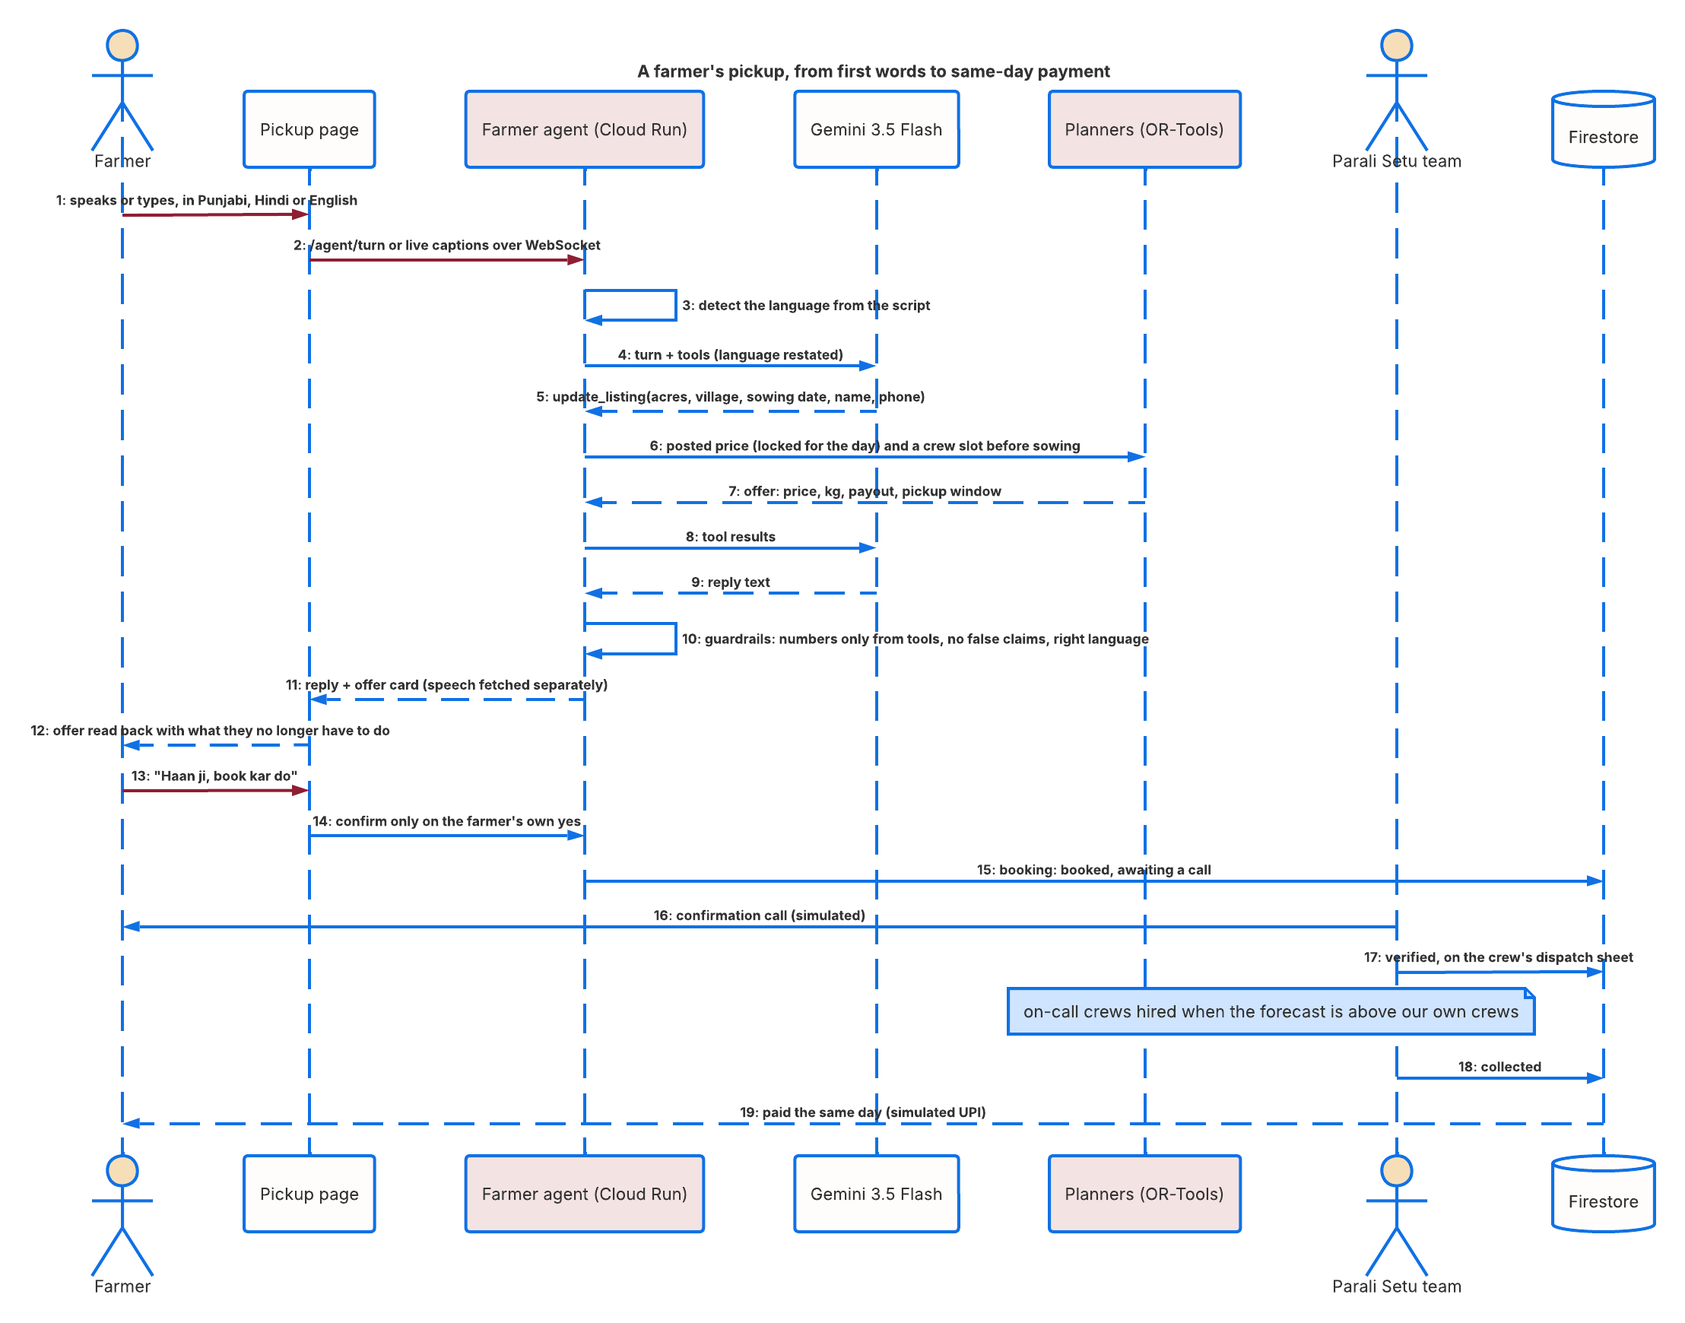
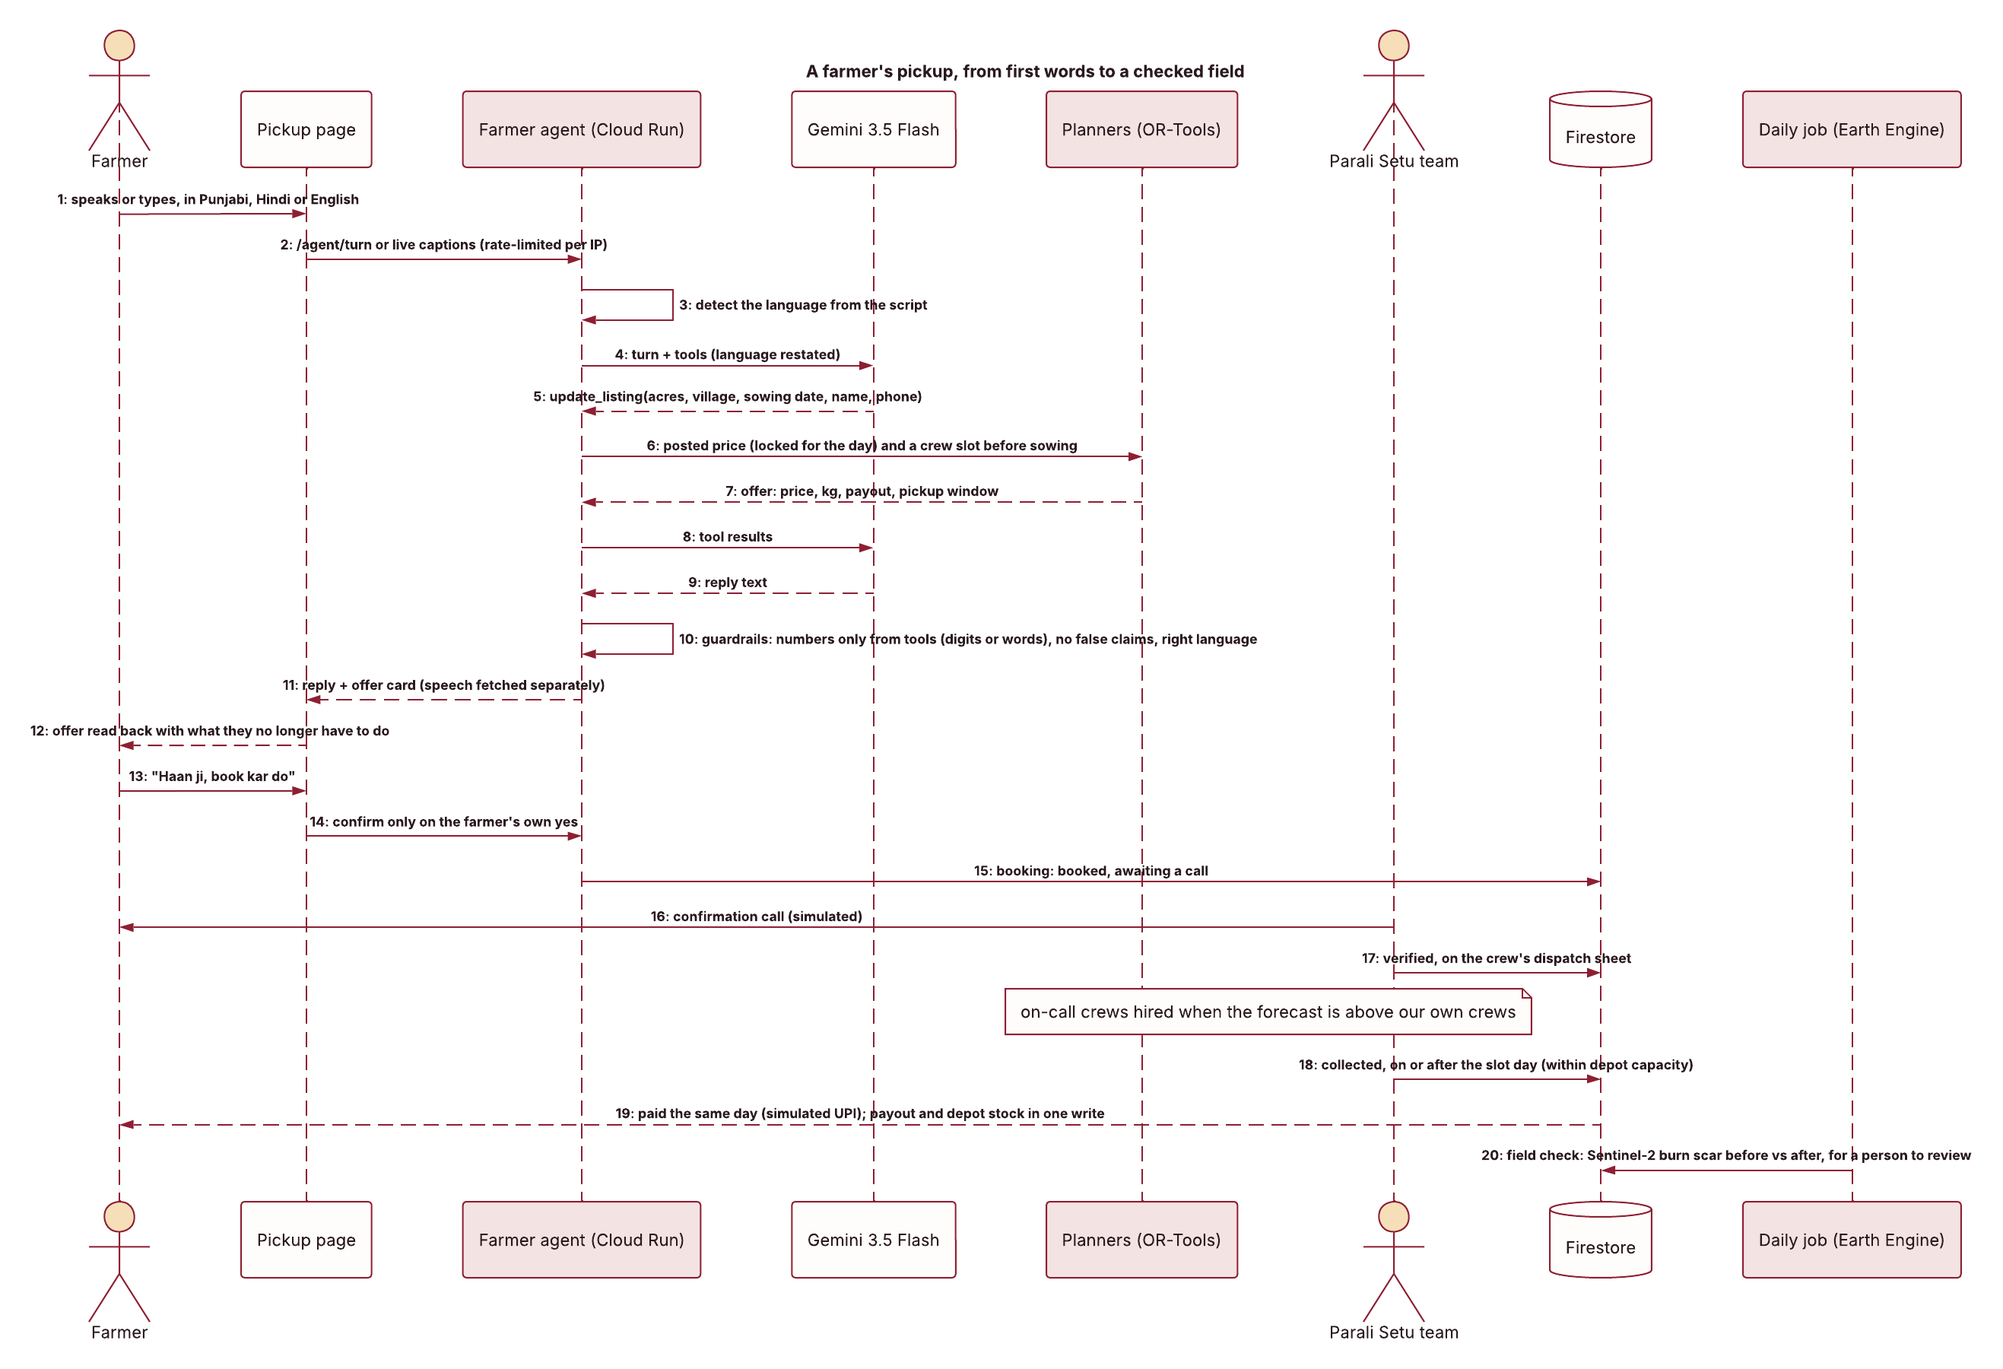
Update the architecture and booking-flow diagrams for the merged work
Both Lucid documents were updated in place, so their links still work, and
the PNGs were exported again.

The architecture diagram adds rate limits, the Sentinel-2 field check,
budgets and the cost guard, and Firestore's no-browser rule. It also shows
the fire map, agent health and break-even on the pages, plus a band of the
results measured offline, from bench/RESULTS.md.

The booking flow is in the Phulkari palette and now covers:
- collection only on or after the slot day;
- payout and depot stock written in one transaction;
- the later Sentinel-2 field check.

ARCHITECTURE.md adds:
- the evidence and protection layers;
- the ledger rules and the field check;
- a "Measured, not claimed" table;
- corrected latency and travel-model limitations.

The README's service rows match.

diff --git a/docs/ARCHITECTURE.md b/docs/ARCHITECTURE.md
@@ -1,4 +1,4 @@
-# Parali Setu architecture (2.1)
+# Parali Setu architecture (2.2)
 
 Parali Setu buys paddy straw from farmers, collects it before wheat sowing, pays the same
 day, stores it at depots and supplies companies all year. This document describes the
@@ -16,19 +16,22 @@ exported to `parali-setu-frontend/img/`.
 | Language | `agent.py`, `language.py`, `live.py`, `extraction.py`, `speech.py`, `phrases.py` | Which language the farmer speaks, understanding them (audio, text, photos), asking and cross-checking, explaining | Produce a price, weight, payout, date or slot |
 | Forecast | `forecast/` (Earth Engine, BigQuery) | When straw comes off the fields (TimesFM), how much (crop statistics), who buys it (published figures) | Run at request time |
 | Planning | `procurement.py`, `scheduler.py`, `deliveries.py`, `costs.py`, `operations.readiness` | Posted prices, what to buy where, crew slots and on-call crews, monthly deliveries, quotes and what we can commit, crews needed for the forecast | Talk to anyone |
-| Operations | `operations.py`, `pickups.py`, `firestore_store.py` | Bookings, verification before dispatch, offer expiry, same-day payouts, depot stock | Decide a number itself |
+| Operations | `operations.py`, `pickups.py`, `firestore_store.py` | Bookings, verification before dispatch, offer expiry, same-day payouts and depot stock (one transaction), shipments out | Decide a number itself |
+| Evidence | `satellite_check.py`, `agent_health.py`, `economics.py`, `bench/` | Sentinel-2 field check after a pickup, the agent's measured health, a farmer's break-even, the benchmarks behind every claim | Decide a payout |
+| Protection | `ratelimit.py`, `firestore.rules`, `ops/cost-guard/` | Caps on Gemini and speech calls, no browser access to the database, shutting down if real money is charged | Serve a page |
 
 ## Deployment
 
 ```mermaid
 flowchart LR
   subgraph Apps[Firebase Hosting: parali-setu-aibuildercup-2026.web.app]
-    L["/ landing"]
+    L["/ landing: story, 2024 fire map, farmer break-even"]
     K["/kisan one conversation, any of 3 languages"]
-    O["/ops dispatch, routes, forecast"]
+    O["/ops dispatch, routes, forecast, fires, agent health"]
     C["/company quotes and orders"]
   end
   subgraph Run[Cloud Run: parali-setu-api]
+    RL[ratelimit.py<br/>caps on Gemini and speech calls]
     A[agent.py + language.py<br/>Gemini function calling + guardrails]
     LV[live.py<br/>WebSocket /agent/live]
     P[procurement.py<br/>GLOP LP + shadow prices]
@@ -36,30 +39,39 @@ flowchart LR
     VF[verification<br/>before dispatch]
     R[readiness<br/>forecast acres vs crews]
     D[deliveries.py<br/>GLOP LP, earliest order first]
-    I[impact.py · costs.py]
+    I[impact.py · costs.py · economics.py]
+    AH[agent_health.py<br/>guardrail reports + benchmark]
+    SC[satellite_check.py<br/>Sentinel-2 field check]
   end
   G[Vertex AI Gemini 3.5 Flash<br/>fallback 2.5 Flash, Mumbai]
   GL[Gemini live transcription]
   V[Text-to-Speech / Speech-to-Text]
-  F[(Firestore)]
+  F[(Firestore<br/>rules: no browser access)]
   BQ[(BigQuery<br/>TimesFM AI.FORECAST · ARIMA_PLUS)]
-  EE[Earth Engine<br/>NASA FIRMS · FAO GAUL]
-  J[Cloud Run jobs + Cloud Scheduler<br/>daily fires, weekly forecast]
+  EE[Earth Engine<br/>NASA FIRMS · Sentinel-2 · FAO GAUL]
+  J[Cloud Run jobs + Cloud Scheduler<br/>daily fires and field checks, weekly forecast]
   M[Maps JavaScript API]
-  K --> A
+  K --> RL --> A
   K --> LV --> GL
   K & O & C & L --> Run
   A --> G & V
   Run --> F
   EE --> BQ --> F
   J --> EE
+  J --> SC --> F
   O -.-> M
 ```
 
-Cost protection (`ops/cost-guard/`) is unchanged:
+The landing page's 2024 fire map is a static file (`parali-setu-frontend/data/fires_2024.json`,
+built by `forecast/fire_map_data.py` from Earth Engine), so it costs nothing per visit.
+
+**Protection.**
+- **Rate limits (`ratelimit.py`):** the endpoints that call Gemini or speech allow 20 calls a minute and 200 an hour per visitor, and 1,500 an hour across all visitors on each instance. A request over the limit gets 429 and never reaches Gemini.
+- **Firestore rules (`firestore.rules`):** browsers can't read or write the database; only the API's service account can.
 - **Budgets:** a gross-usage budget, and a ₹100 real-money budget that publishes to Pub/Sub.
-- **The guard:** a Cloud Run function closes the API's ingress and turns off the AI APIs if real money is ever charged.
+- **The guard (`ops/cost-guard/`):** a Cloud Run function closes the API's ingress and turns off the AI APIs if real money is ever charged.
 - **Limits:** `--max-instances 3` on the API.
+- **Config:** `parali-setu-frontend/build_config.py` writes `config.js` from `API_BASE` and `MAPS_API_KEY`, so no URL or key is committed.
 
 ## The farmer agent
 
@@ -99,17 +111,20 @@ sequenceDiagram
 - `cancel_booking`
 
 **Guardrails enforced in code:**
-- **Numbers.** Every number in a reply must appear among the tools' returned values or in the farmer's own words. Identifiers are excluded, so a random id can't license digits.
+- **Numbers.** Every number in a reply must appear among the tools' returned values or in the farmer's own words, whether it is written in digits or in words. Identifiers are excluded, so a random id can't license digits.
 - **Claims.** No "government" rate, no schemes or subsidies, no "trust us": we are a private company and payments are simulated (unless the farmer raised the word, so the agent can say no).
 - **Language.** A reply in another script than the farmer's language is rewritten.
 - A violation of any of these triggers one rewrite. If that fails, a deterministic template built from tool results is used.
-- **An explicit yes.** `confirm_booking` needs an offer shown in an earlier turn, and the farmer's latest words must say yes. That is checked in their language and in English; a question or a "no" never counts.
+- **An explicit yes.** `confirm_booking` needs an offer shown in an earlier turn, and the farmer's latest words must say yes. That is checked in their language and in English. A softened yes ("haan ji, theek hai") counts; a question or a "no" never does.
+- **Language stickiness.** A message with only a name and a number keeps the conversation's language instead of switching to English.
 - **Who and where.** No offer without a name and a valid 10-digit mobile. The farm location is a demo pin near the stated village (the prototype never reads the device's location).
 - **Cross-checks.** An acres-versus-weight mismatch, a sowing date already past, or a harvest after sowing blocks booking until it is resolved; a sowing date within 2 days is flagged.
 - **Scope and size.** Off-topic requests declined, bounded input, at most 5 tool calls per turn and 40 turns per conversation.
 - **Records.** Every turn stores the farmer's words, an English rendering and a guardrail report, so ops can audit it (`GET /agent/conversations/{id}`).
 
-**Speed.** A primary step has 5 s, then the fallback model in Mumbai; a rate-limited primary is skipped for 30 s, and once the fallback answers it keeps the rest of the turn (the two models sign function calls differently). Thinking is off for these calls.
+**Speed.** A primary step has 5 s, then the fallback model in Mumbai; a rate-limited primary is skipped for 30 s, and once the fallback answers it keeps the rest of the turn (the two models sign function calls differently). Thinking is off for these calls. Measured: an agent turn takes 2.5 s median (10.9 s at the 95th percentile) against real Gemini, and 3.8 s median over the internet including the spoken reply.
+
+**Health.** Every turn stores its guardrail report. `GET /ops/agent-health` counts speed, fallbacks and what the guardrails caught over recent conversations, next to the latest benchmark, and the ops console shows it.
 
 ## Forecasting
 
@@ -176,31 +191,58 @@ stateDiagram-v2
   booked --> cancelled
   booked --> verified: our team confirms by phone (simulated)
   verified --> cancelled
-  verified --> collected: crew marks collected
-  collected --> paid: same-day payout recorded (simulated UPI) + depot stock
+  verified --> collected: crew marks collected, on or after the slot day
+  collected --> paid: same-day payout (simulated UPI) + depot stock, one transaction
   paid --> [*]
 ```
+
+**The ledger.** Collected, paid and depot stock are written in one Firestore transaction
+(`store.record_pickup`): a crash can't leave a farm collected but unpaid, or paid without
+stock. A crew can't mark a farm collected before its slot day, a depot refuses straw beyond
+its capacity, and a shipment to a customer (`POST /deliveries/{id}/shipped`) takes the straw
+out of stock so the next plan counts it as delivered.
+
+**After the pickup.** The daily fire job compares Sentinel-2 images of each paid field before
+and after collection (dNBR). A burn scar needs both a dNBR above 0.27 and a charred surface,
+because harvesting alone also lowers NBR. The result is stored on the booking as
+`field_check` and shown on the ops Impact tab. It is evidence for a person to review and never
+changes a payout.
 
 ## Data model (Firestore)
 
 | Collection | Holds |
 |---|---|
 | `listings` | The farmer's field: name, phone, acres, kg, crop, district, location (and whether it is a demo pin), sowing date |
-| `bookings` | Listing → depot at the posted price; lifecycle status, verification record (pending, verified, needs a change), reason code, payout |
+| `bookings` | Listing → depot at the posted price; lifecycle status, verification record (pending, verified, needs a change), reason code, payout, Sentinel-2 `field_check` |
 | `depots`, `crews`, `pickup_slots` | Storage sites and radius; own and on-call crews; planned visits (arrival window, planned start and end, locked flag) |
 | `posted_prices` | Price per district per day (locked once posted), shadow price, reason |
-| `purchases`, `inventory_moves` | Same-day payouts; straw in and out of each depot |
-| `customers`, `orders`, `deliveries` | Companies, forward orders with quote, PO code and status (cancelled orders keep their record), planned monthly shipments |
+| `purchases`, `inventory_moves` | Same-day payouts; straw into each depot at collection and out at shipment |
+| `customers`, `orders`, `deliveries` | Companies, forward orders with quote, PO code and status (cancelled orders keep their record), planned monthly shipments and when each shipped |
 | `plans` | Latest procurement and delivery plans with their assumptions |
 | `forecasts` | TimesFM live forecast and backtest results |
 | `conversations` | Agent turns, English records, tool facts, guardrail reports |
 | `farmers`, `no_burn_proofs`, `fire_detections` | Trust score, photo proofs, the latest FIRMS batch |
 
+## Measured, not claimed
+
+Every number below comes from a script in `parali-setu-api/bench/`; the full tables are in
+[bench/RESULTS.md](../parali-setu-api/bench/RESULTS.md).
+
+| What | Result |
+|---|---|
+| 40 simulated farmers booking against real Gemini | 40/40 booked; no unverified number reached a farmer; 10/10 trick conversations handled |
+| Vertex AI Gen AI Evaluation, 80 real replies | groundedness 0.96, instruction following 4.62/5, fluency 4.96/5, safety 1.00 |
+| Routing model against two hand-dispatch rules | the fewest km at every size from 50 to 400 farms, all cleared before sowing |
+| Travel model against the Routes API, 100 trips | roads are 1.28× the straight line (model 1.3×) |
+| Sentinel-2 field check on the 2024 season | a scar at 66% of FIRMS fire points and 11% of points with no fire nearby |
+
 ## Known limitations
 
 - **Demo and simulated data:** farms, customers and crews are demo data, and the on-call pool is simulated. Confirmation calls, SMS and payments are simulated.
 - **Cost assumptions:** collection, freight and storage costs are working assumptions, labelled as such on the ops console.
-- **Travel times** are straight-line × 1.3 at 30 km/h, not road routes.
+- **Travel times** are straight-line × 1.3 at 30 km/h, not road routes. Checked against the Routes API, distance is within 7.7% per trip, and the 30 km/h is deliberately slower than Google's 37 km/h car speed because the crew drives a tractor and baler.
 - **Forecast inputs:** the forecast predicts timing, not volume. Demand is derived from published figures.
-- **Latency:** a typed turn is a median of about 5.8 s over HTTP (Gemini's 1–3 s per call is the floor); streaming replies are on the roadmap.
+- **Latency:** an agent turn's 95th percentile is 10.9 s, mostly when the primary model is rate-limited and the fallback answers; streaming replies are on the roadmap.
+- **Punjabi speech** is heard right 70.8% of the time by word (Hindi and English 100%); the read-back and the date check catch the slips.
+- **Field check:** Sentinel-2 needs a clear image before and after the pickup; a field without one is marked `no_clear_image` and checked again on the next daily run.
 - **Booking share** (0.5%) and the on-call pool size are assumptions that set the readiness numbers.

diff --git a/README.md b/README.md
@@ -55,7 +55,7 @@ six-week rush.
 3. **One fair price.** Each district gets one posted farm-gate price per day (₹0.5–1.5/kg) from the procurement optimizer. It never changes during the day, and there is no bargaining.
 4. **A slot before sowing.** The routing model books the farm on one of our crews; when ours are full, an **on-call crew** hired for the day takes it. The offer card shows the payout and what the farmer no longer has to do: rent a baler, find labour, make trolley trips, race the sowing date.
 5. **A person confirms, then the crew goes.** A booking needs the farmer's own yes. It then waits in the ops **Calls to make** queue; only pickups our team has confirmed by phone (simulated) go on a crew's dispatch sheet.
-6. **Paid the same day.** When the crew collects, the payout is recorded (simulated UPI) and the straw goes into depot stock.
+6. **Paid the same day.** When the crew collects (not before the slot day), the payout (simulated UPI) and the depot stock are written together in one transaction. Weeks later, Sentinel-2 checks that the field stayed unburned.
 7. **Ready for the peak.** The ops Dispatch board compares the acres farmers are forecast to book each day with what our own crews clear, and says how many on-call crews to hire, or to sign up before the peak.
 8. **Supplied all year.** Companies price an order in one sentence, see what we can commit month by month, and sign. Orders signed first keep their stock.
 
@@ -65,16 +65,17 @@ six-week rush.
 
 | Service | Role |
 |---|---|
-| **Vertex AI · Gemini 3.5 Flash** (global) | The farmer's talking agent, using function calling. About 1 s per step in our tests on 17 Oct 2026, while 3.8 Flash on the same endpoint was returning 429s and 504s. A step that is slow or rate-limited goes straight to **Gemini 2.5 Flash in Mumbai**. Also hears recorded audio, grades photos and explains prices. **Never produces a number.** |
+| **Vertex AI · Gemini 3.5 Flash** (global) | The farmer's talking agent, using function calling. About 1 s per step in our tests on 17 Oct 2026, while 3.8 Flash on the same endpoint was returning 429s and 504s. A step that is slow or rate-limited goes straight to **Gemini 2.5 Flash in Mumbai**. Also hears recorded audio and grades photos. **Never produces a number.** |
 | **Gemini live transcription** (global) | "Live words": captions appear while the farmer speaks; it listens for Punjabi, Hindi and English at once. The final words go through the same guarded agent. |
 | **Text-to-Speech / Speech-to-Text** | Spoken replies in Chirp 3 HD voices (pa-IN, hi-IN, en-IN), fetched alongside the reply text so the farmer never waits on audio. Speech-to-Text is the fallback when Gemini can't hear a recording. |
 | **BigQuery** | Weekly series of 25 paddy seasons of fire detections per district. **TimesFM (`AI.FORECAST`)** forecasts this season's harvest timing; **ARIMA_PLUS** and a same-as-last-year baseline are backtested against it. |
-| **Earth Engine** | NASA FIRMS fire detections, 2001–2026, counted per day within FAO GAUL 2025 district boundaries for Punjab and Haryana. |
-| **Cloud Run** | The API, with three OR-Tools planners (procurement LP, routing model, delivery LP), verification, readiness and the WebSocket for live words. Also the daily fire refresh and weekly forecast jobs, triggered by **Cloud Scheduler**. |
-| **Firestore** | Bookings and their verification, depots, crews, slots, posted prices, purchases, stock moves, customers, orders, deliveries, plans, forecasts, conversations. |
+| **Earth Engine** | NASA FIRMS fire detections, 2001–2026, counted per day within FAO GAUL 2025 district boundaries for Punjab and Haryana; the 2024 season's fire map on the landing page; and a **Sentinel-2** burn-scar check on every collected field. |
+| **Cloud Run** | The API, with three OR-Tools planners (procurement LP, routing model, delivery LP), verification, readiness and the WebSocket for live words. Also the daily fire refresh (with the Sentinel-2 field checks) and weekly forecast jobs, triggered by **Cloud Scheduler**. |
+| **Firestore** | Bookings and their verification, depots, crews, slots, posted prices, purchases, stock moves, customers, orders, deliveries, plans, forecasts, conversations. Security rules allow no browser access; only the API reads and writes. |
 | **Firebase Hosting** | The landing page, pickup page, ops console and customer portal, in one shared design system. |
 | **Maps JavaScript API** | Crew routes in the ops console. |
-| **Billing budgets + Pub/Sub + Cloud Run function** | Cost guard. Emails both teammates, and closes the API and turns off the AI APIs if real money is ever charged. |
+| **Billing budgets + Pub/Sub + Cloud Run function** | Cost guard. Emails both teammates, and closes the API and turns off the AI APIs if real money is ever charged. The API also rate-limits every endpoint that calls Gemini or speech. |
+| **Vertex AI Gen AI Evaluation, Routes API** (offline) | Measure the agent's replies (groundedness 0.96) and the travel model against real roads (1.28× the straight line). See [bench/RESULTS.md](parali-setu-api/bench/RESULTS.md). |
 
 The design rule: **language from Gemini, numbers from optimizers, timing from satellites.**
 See [docs/ARCHITECTURE.md](docs/ARCHITECTURE.md) for the agent's guardrails, the planners and
